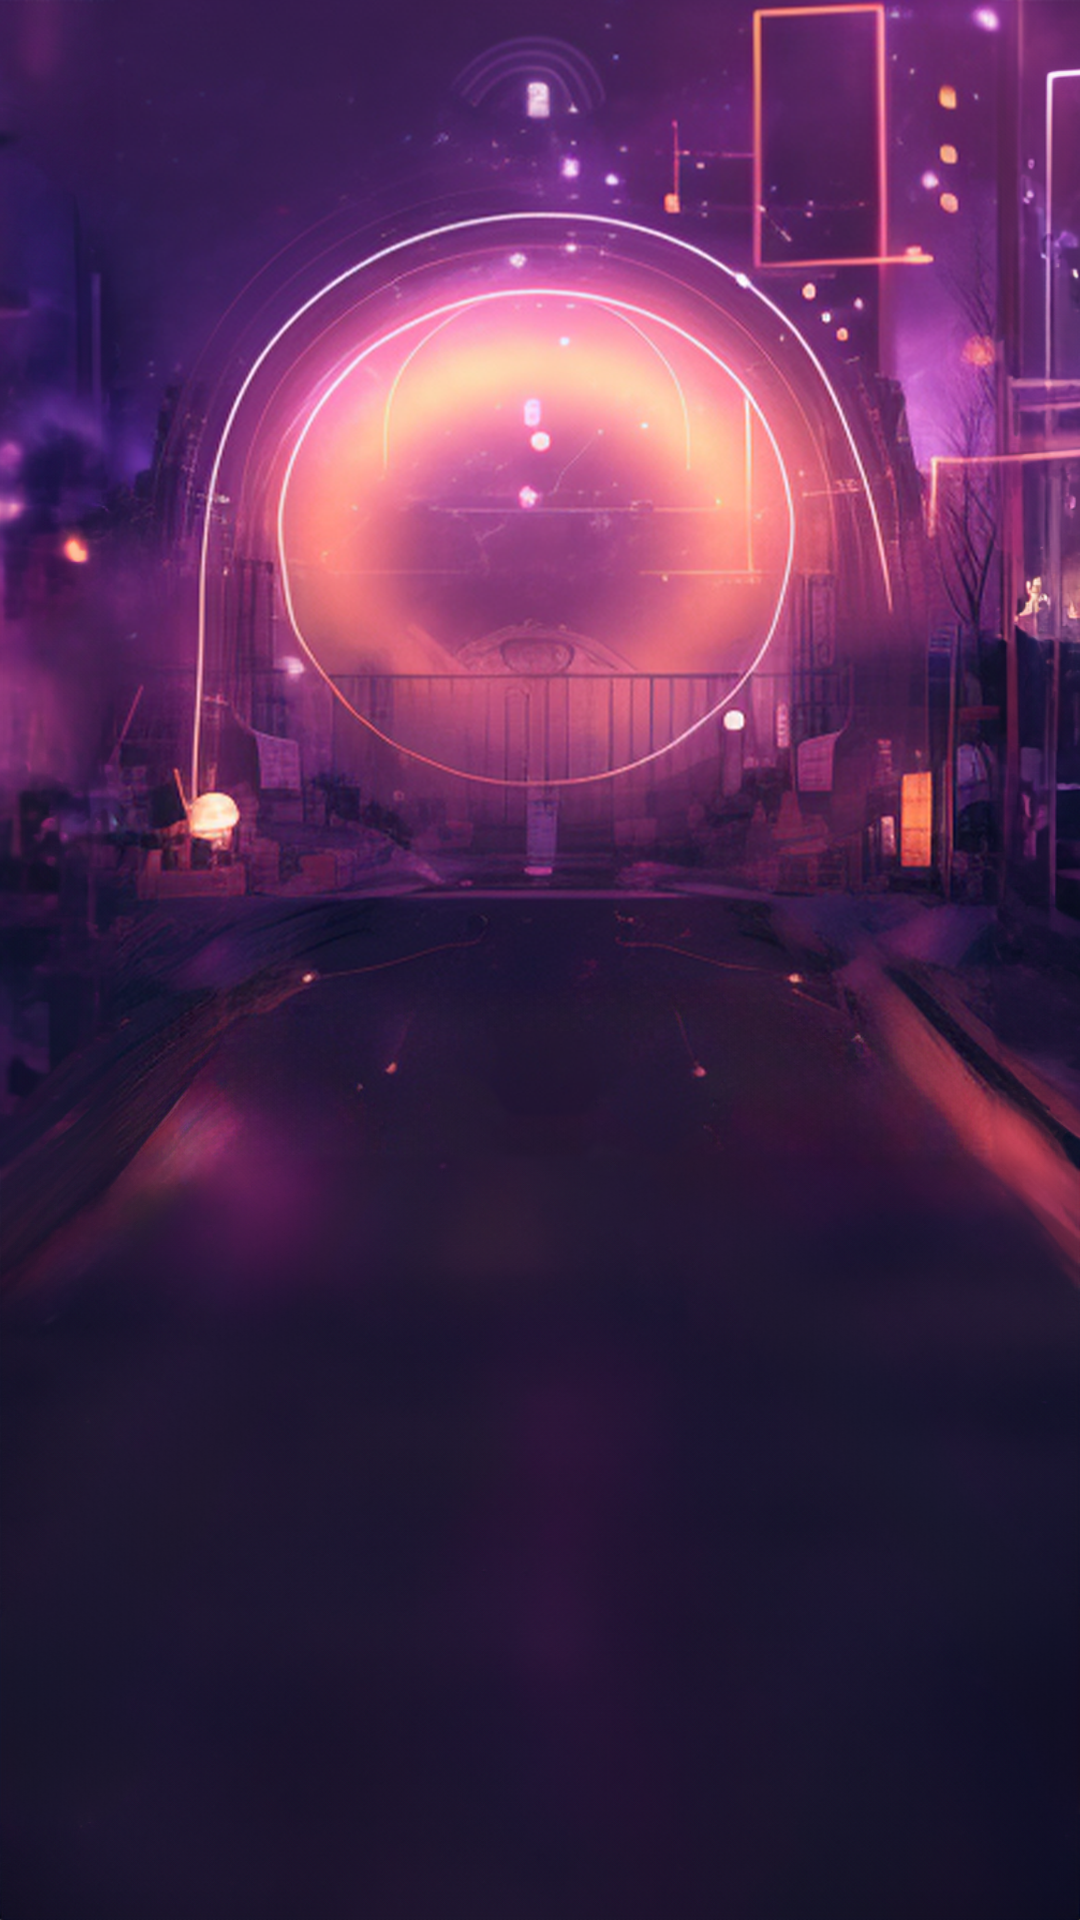
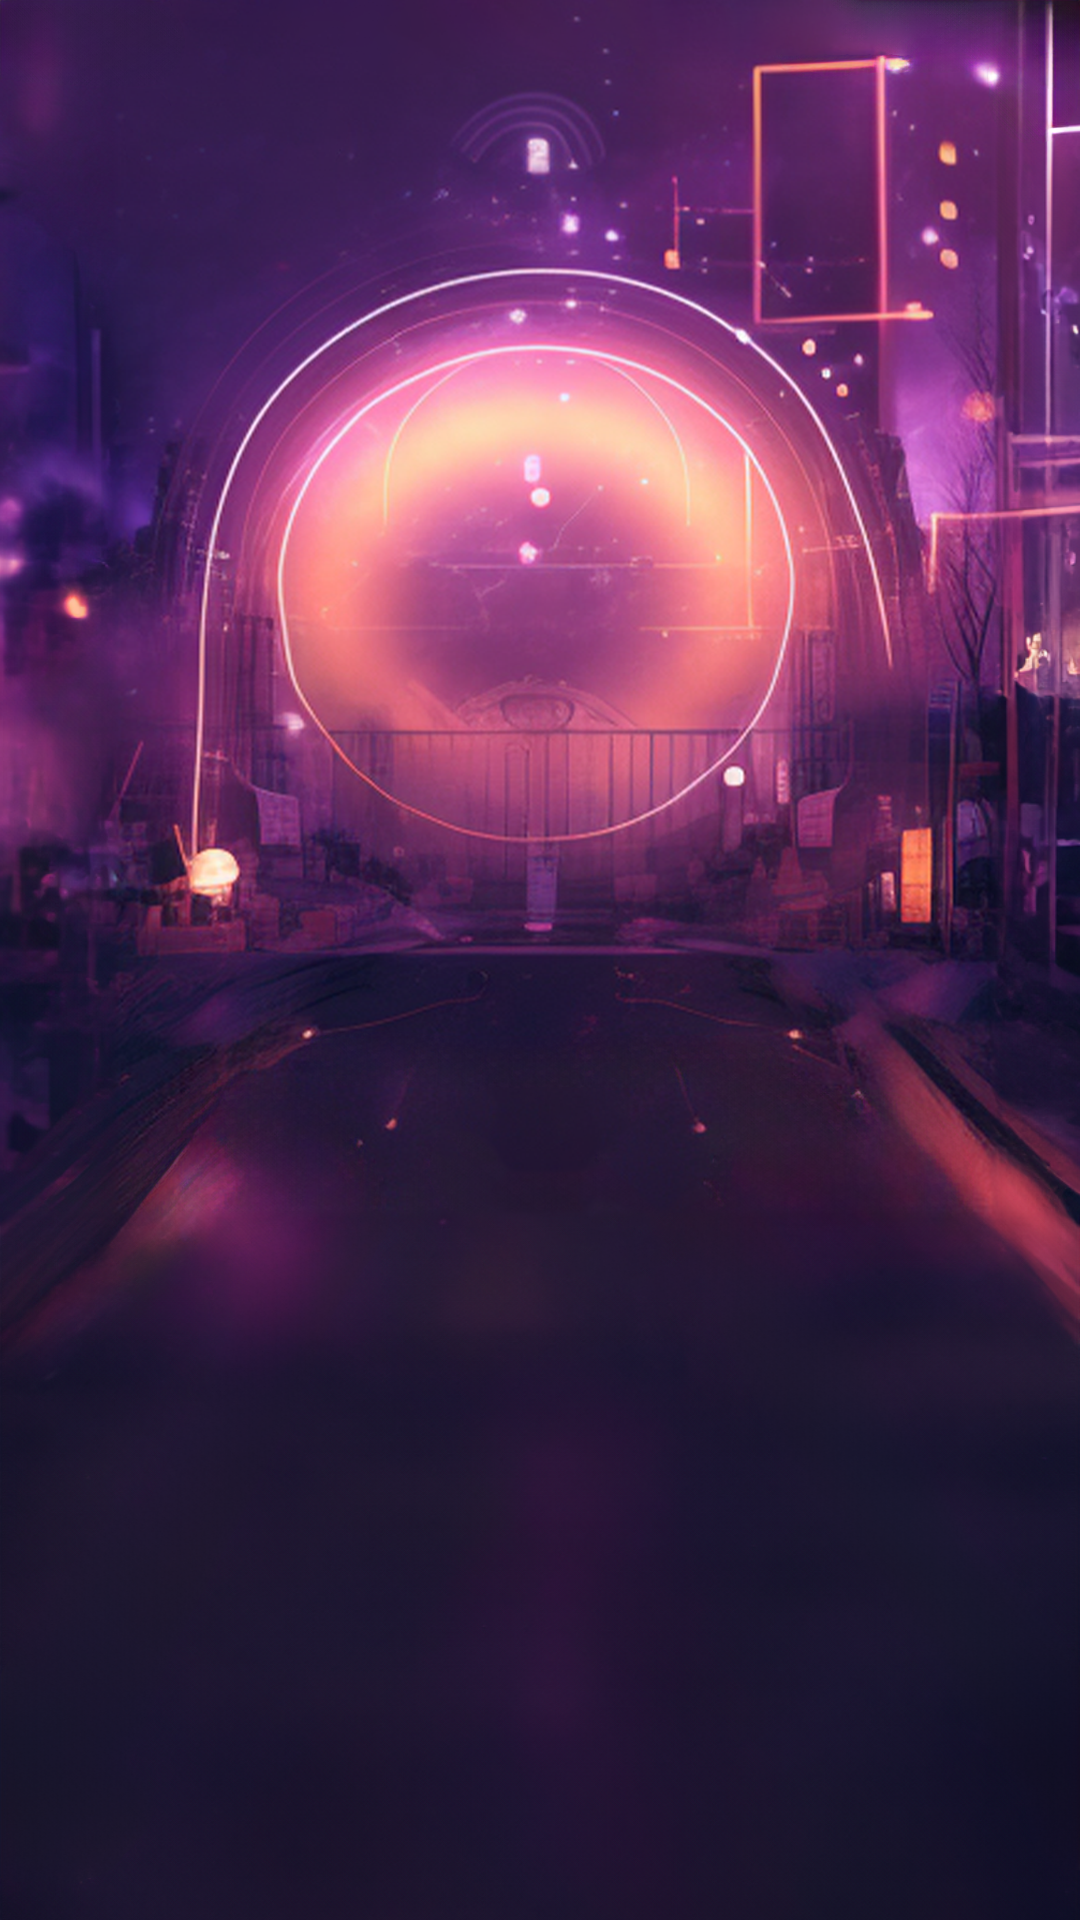
put a View around buttons to move them down, resized title, lowered the BG in photoshop

Changed region(s): [[0.0, 0.0, 1.0, 0.7188], [0.0306, 0.0312, 0.0611, 0.0625], [0.0, 0.5312, 0.0306, 0.5625]]

diff --git a/App.js b/App.js
@@ -1,15 +1,38 @@
 import { StyleSheet, Text, View, Image, StatusBar } from "react-native"
-import { Button } from "@react-native-material/core"
+import { Button, Stack } from "@react-native-material/core"
 import bg from "./assets/backgrounds/dreamBG.png"
 
 export default function App() {
   return (
     <View style={styles.container}>
       <Image source={bg} style={styles.backgroundImage} />
-      <Button title="SETTINGS" />
-      <Button title="START" />
-      <Button title="CUSTOM" />
-
+      <Text style={styles.title}>Dream Nav</Text>
+      <View style={styles.buttonsDiv}>
+        <Stack fill in center spacing={20}>
+          <Button
+            title="SETTINGS"
+            onPress={() => {
+              alert(
+                "You pressed settings, this button should take you to another page where you can choose how you want your app to work"
+              )
+            }}
+          />
+          <Button
+            title="START"
+            onPress={() => {
+              alert(`You pressed start! This button should start the program `)
+            }}
+          />
+          <Button
+            title="CUSTOM"
+            onPress={() => {
+              alert(
+                `This button should let you upload your own sound to the app`
+              )
+            }}
+          />
+        </Stack>
+      </View>
       <StatusBar
         barStyle="light-content" // Set the desired status bar style
       />
@@ -32,5 +55,16 @@ const styles = StyleSheet.create({
     left: 0,
     width: "100%",
     height: "100%",
+  },
+  title: {
+    color: "white",
+    marginTop: 150,
+    marginRight: 200,
+    fontSize: 28,
+    fontWeight: 600,
+  },
+  buttonsDiv: {
+    borderColor: "red",
+    marginTop: 100,
   },
 })
